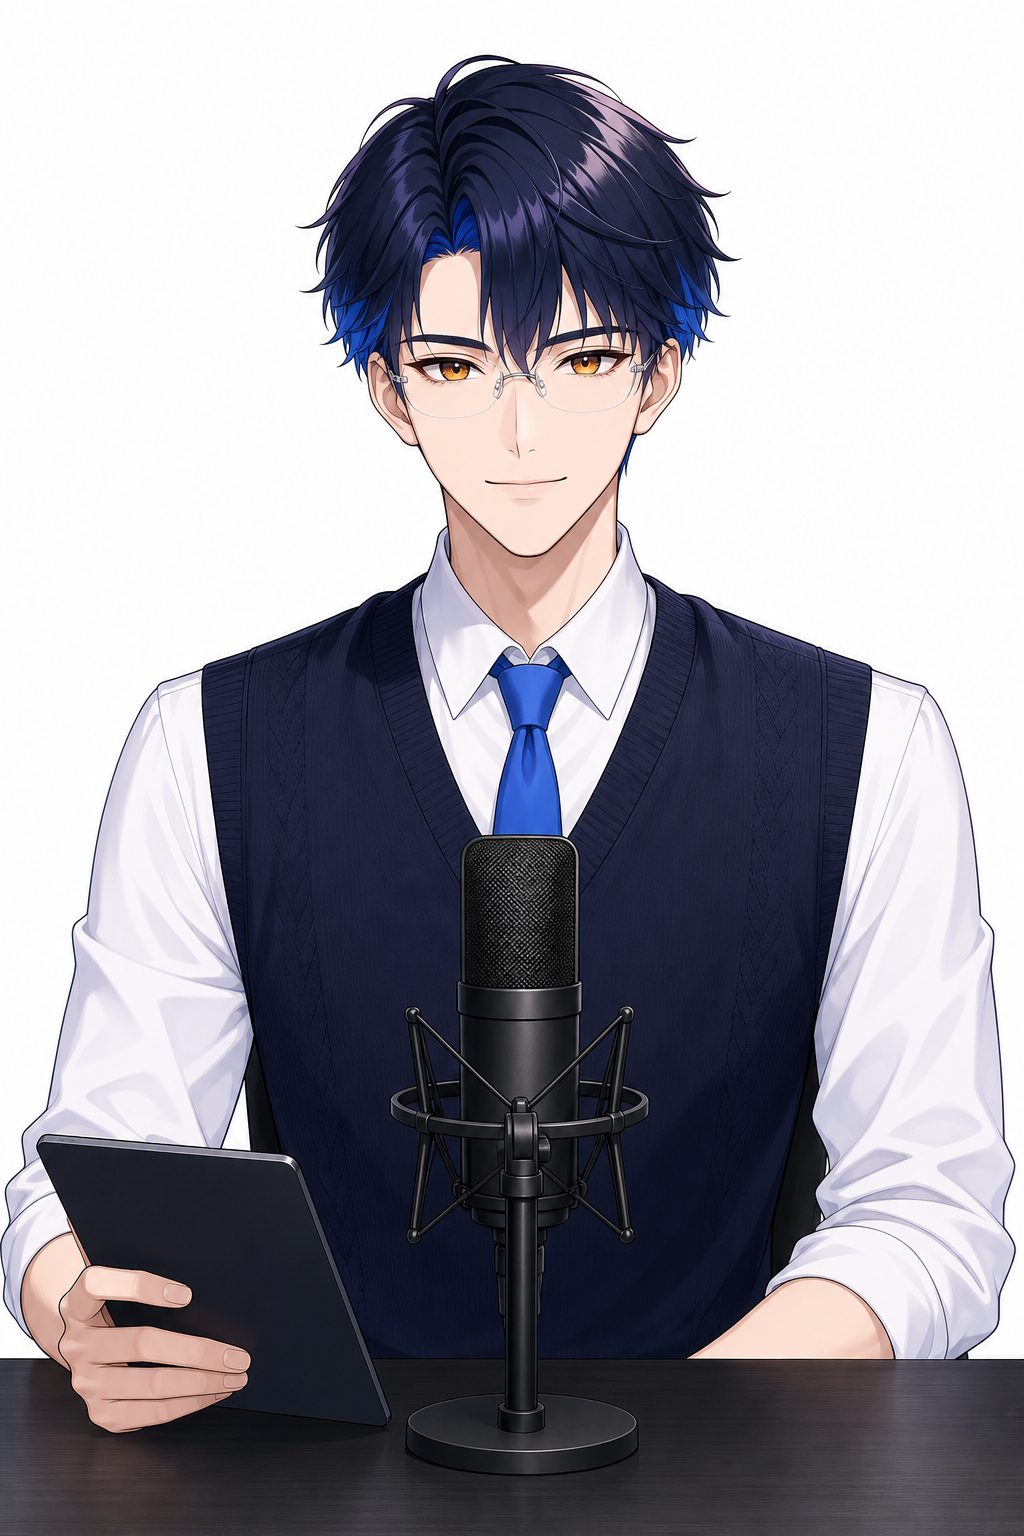
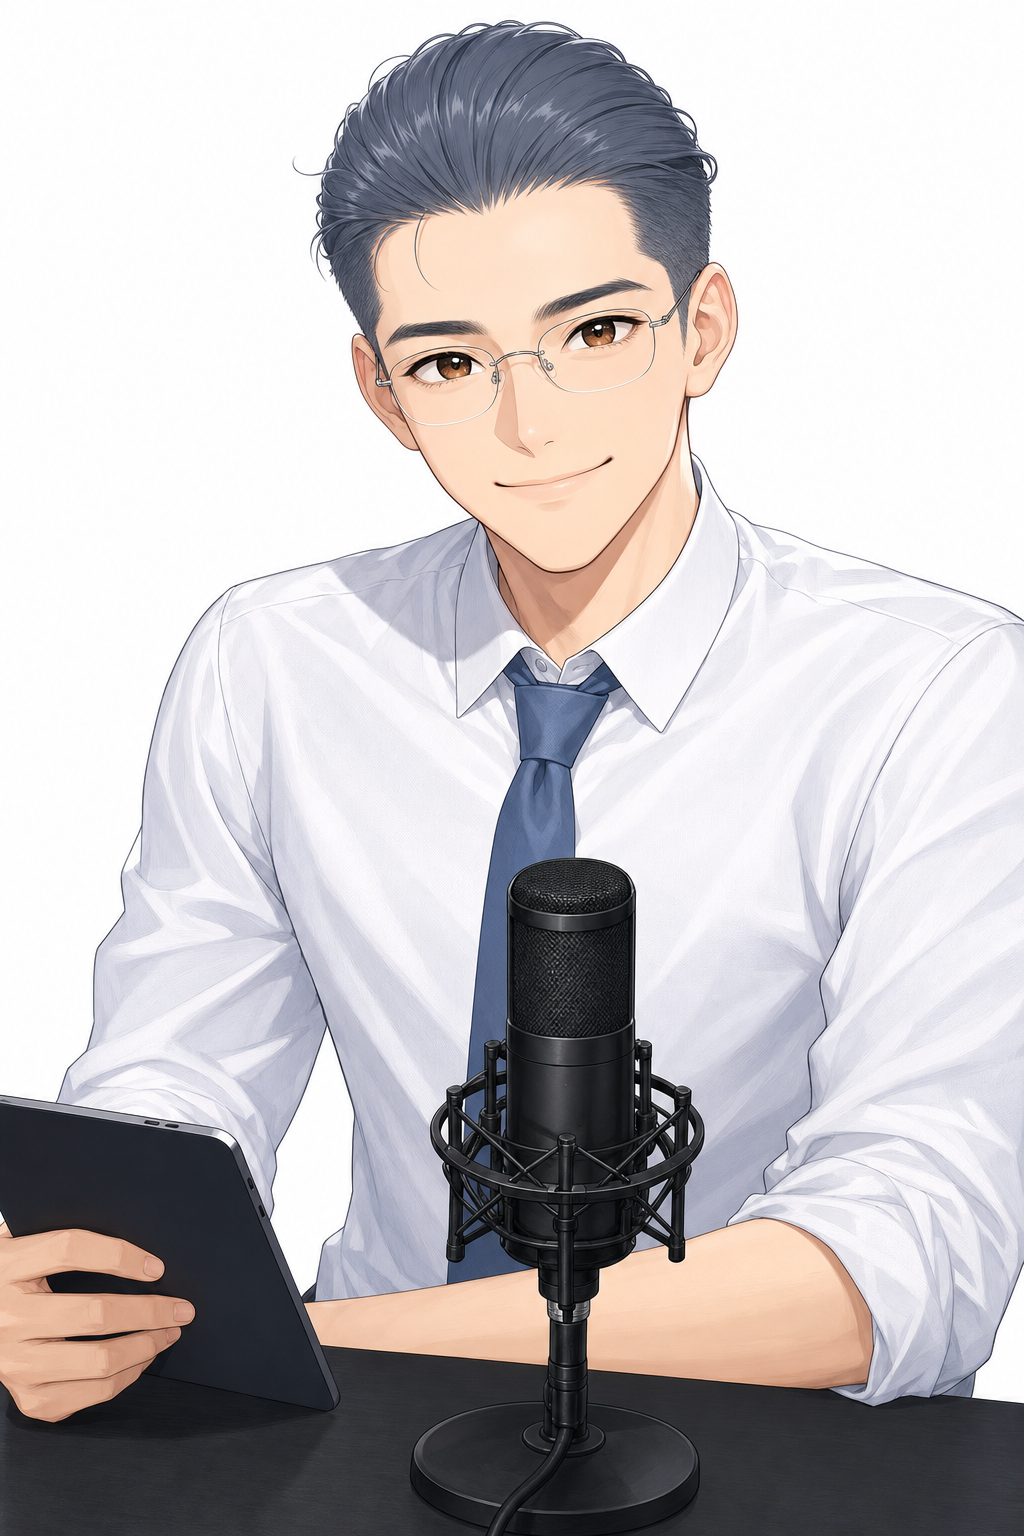
feat: VIP 리포터 캐릭터를 레이(여성·현장)로 교체, 카이(남성)는 보류
남성 캐릭터는 프롬프트를 어떻게 잡아도 세이넨 극화체로 흘러 로지·미아와
같은 크루로 읽히지 않았다. 여성 캐릭터로 방향을 틀고, 현장 리포터는 서 있는
인물이므로 흉상 대신 허벅지까지 반신 규격을 새로 정한다.

한 영상에 여러 캐릭터를 동시에 세우지 않고 뉴스처럼 "리포터1→씬1"로 배치하기로
정리했으므로, 담당 역할을 배타적으로 나누던 항목을 걷어내고 담당 주제·화법 톤
차이만 남겼다.

작업 중 겪은 함정 두 개를 문서에 남긴다. (1) codex가 숨김 디렉터리(.tmp) 안의
참조 이미지를 샌드박스 제약으로 못 읽으면서도 참조 없이 그냥 생성해 조용히
실패한다 — 지시가 무시되는 것처럼 보이던 원인. (2) 머리 길이만 지시하면 모델이
얼굴을 성숙하게 그려버려, 얼굴이 잘 나온 시안을 참조로 고정하고 길이만 바꾸게
해야 한다.

diff --git a/CHARACTERS-REPORTERS-DRAFT.md b/CHARACTERS-REPORTERS-DRAFT.md
@@ -1,34 +1,41 @@
-# VIP(playcast) 리포터 캐릭터 2종 — 초안
+# VIP(playcast) 리포터 캐릭터 초안
 
 > 작성 2026-07-29 · 상태: **초안(미확정)** · 기준 캐릭터: 앵커 **로지(Rosie)** `public/host/rosie.png`
 
 ## 0. 설계 원칙 — "같은 방송국 크루"로 묶는다
 
 로지의 결을 잇는다는 건 머리색을 비슷하게 가는 게 아니라, **같은 화가가 같은 규칙으로 그린
-같은 방송국 소속**으로 읽히게 만드는 것이다. 그래서 아래 3층으로 나눈다.
+같은 방송국 소속**으로 읽히게 만드는 것이다. 그래서 아래로 층을 나눈다.
 
-| 층 | 내용 | 3인 공통/개별 |
+| 층 | 내용 | 공통/개별 |
 |---|---|---|
-| 그림체 | 밝은 애니 일러스트, 얇고 깔끔한 선, 소프트 셀 셰이딩, 큰 눈+하이라이트, 흰 배경 | **공통(고정)** |
-| 구도 | 바스트업 정면, 방송 데스크 + 검은 스튜디오 콘덴서 마이크, 손은 데스크 위 | **공통(고정)** |
-| 유니폼 | 크리스프한 **화이트 드레스 셔츠** | **공통(고정)** |
-| 시그니처 컬러 | 머리색 + 목장식(타이/스카프) 1색 | **개별** |
-| 역할 | 담당 코너 | **개별** |
+| 그림체 | 밝은 애니 일러스트, 얇고 깔끔한 선, **밝은** 소프트 셀셰이딩(그림자 가볍게), 큰 눈 + 하이라이트 2겹, 흰 배경 | **공통(고정)** |
+| 유니폼 | 크리스프한 **화이트 드레스 셔츠** + 목에 시그니처 컬러 1점 | **공통(고정)** |
+| 연령대 | 22세 전후로 통일 | **공통(고정)** |
+| 프레이밍 | 스튜디오=바스트업(데스크+콘덴서 마이크) / 현장=**허벅지까지 반신 스탠딩**(핸드헬드 마이크) | 포지션별 |
+| 시그니처 컬러 | 머리색 또는 넥웨어 | **개별** |
+| 담당 주제·톤 | 코너 성격 | **개별** |
 
-시그니처 컬러는 사이트 팔레트(`--host:#57e6c3`, `--live:#ff3d54`)와 충돌하지 않게 색상환에서
-민트 → 라벤더 → 코발트로 벌린다. 다크 UI(#0f0f11) 위에서 셋 다 명도 대비가 확보된다.
+시그니처 컬러는 사이트 팔레트(`--host:#57e6c3`, `--live:#ff3d54`)와 충돌하지 않게 색상환에서 벌린다.
+다크 UI(#0f0f11) 위에서 명도 대비가 확보되는지 확인할 것.
 
-| 인물 | 시그니처 | 머리 | 눈 | 포지션 |
-|---|---|---|---|---|
-| 로지 (기존) | 민트 `#57e6c3` | 민트/아쿠아 롱 스트레이트 | 틸 | **메인 앵커** — 스튜디오 진행 |
-| 미아 (신규♀) | 라벤더 `#b28cf0` | 라벤더-바이올렛, 하프업 포니테일 | 앰버 골드 | **현장 리포터** |
-| 카이 (신규♂) | 코발트 `#4d9bff` | 다크 네이비 + 코발트 이너, 숏컷 | 쿨 앰버 | **데이터·분석 리포터** |
+### 운용 방식 — 씬 단위 배치
+
+한 영상에 여러 캐릭터가 동시에 등장하는 구성은 아직 쓰지 않는다. **뉴스처럼 "리포터1 → 씬1"
+단위로 배치**한다(한 영상에 1인 기본). 그래서 담당 역할이 배타적이어야 할 필요가 없고,
+캐릭터 구분은 **담당 주제와 화법 톤**으로만 준다.
+
+| 인물 | 시그니처 | 머리 | 눈 | 프레이밍 | 담당 주제·톤 |
+|---|---|---|---|---|---|
+| 로지 (기존) | 민트 `#57e6c3` | 민트/아쿠아 롱 스트레이트 | 틸 | 바스트업(스튜디오) | **메인 앵커** — 진행·정리, 밝고 명랑 |
+| 미아 (초안) | 라벤더 `#b28cf0` | 라벤더-바이올렛 하프업 포니테일 | 앰버 골드 | 바스트업(스튜디오) | 신작 첫인상·이벤트 속보, 텐션 높고 리액션 큼 |
+| 레이 (초안) | 슬레이트 블루 `#5b7fa6` (넥타이) | 애쉬 슬레이트 `#5c6b7a` | 블루 그레이 | **반신 스탠딩(현장)** | 현장 취재·심층 리포트, 차분하고 자신감 있는 톤 |
 
 ---
 
-## 1. 미아 (Mia) — 현장 리포터 ♀
+## 1. 미아 (Mia) ♀ — 신작·속보
 
-**한 줄**: 신작·이벤트 현장을 뛰어다니며 "지금 여기"를 물어오는 에너지 담당.
+**한 줄**: 신작·이벤트를 두고 "이거 진짜 미쳤어요"를 먼저 외치는 에너지 담당.
 
 - **머리**: 라벤더-바이올렛(`#b28cf0`), 하프업 포니테일 + 잔땋기 한 가닥, 사이드 스웹트 뱅.
   로지의 "길고 차분한 스트레이트"와 대비되는 **움직이는 실루엣**.
@@ -36,43 +43,76 @@
 - **얼굴**: 로지보다 살짝 둥근 소녀상, 활짝 웃는 입(로지는 닫힌 미소) → 밝기 한 단계 위.
 - **복장**: 화이트 셔츠 + **라벤더 네커치프**(로지의 타이 자리를 스카프로 변주),
   어깨에 걸친 베이지 프레스 재킷, 가슴 포켓에 프레스 ID 카드.
-- **소품**: 스튜디오 마이크(공통) / 현장 컷에서는 **핸드헬드 마이크**로 교체.
-- **성격·말투**: 텐션 높고 리액션 큼. 감탄사 많음("이거 진짜 미쳤어요"),
-  로지가 정리하면 미아가 흥분한다 → **대비로 굴러가는 케미**.
-- **담당 코너**: 신작 첫인상, 이벤트/업데이트 속보, 커뮤니티 반응.
+- **소품**: 스튜디오 콘덴서 마이크.
+- **말투**: 감탄사 많고 문장이 빠름. 로지가 정리하면 미아가 흥분한다.
+- **상태**: 초안 1회 생성으로 그림체 합격. `public/host/draft/mia.png`
 
-## 2. 카이 (Kai) — 데이터·분석 리포터 ♂
+## 2. 레이 (Rei) ♀ — 현장 취재
 
-**한 줄**: 수치·패치노트·메타를 뜯어보고 차분하게 결론을 놓는 브레인.
+**한 줄**: 현장에 서서 차분하게 사실을 짚는 취재 담당. 크루 중 가장 어른스러운 톤.
 
-- **머리**: 다크 네이비 숏컷 + **코발트 이너 하이라이트**(`#4d9bff`), 살짝 긴 앞머리.
-  남성 캐릭터는 채도를 낮춰야 여성 2인과 나란히 놓았을 때 화면이 안 튄다.
-- **눈**: 쿨한 앰버. **얇은 무테 안경** — 3인 중 유일한 안면 소품이라 실루엣 식별점이 된다.
-- **복장**: 화이트 셔츠 **소매 롤업** + 코발트 슬림 타이 + 다크 네이비 니트 베스트.
-  로지/미아가 "셔츠 그대로"라면 카이는 레이어 하나를 더해 무게를 준다.
-- **소품**: 스튜디오 마이크(공통) + 손에 슬림 태블릿(그래프 표시).
-- **성격·말투**: 낮은 톤, 짧고 단정한 문장, 결론부터. 농담은 건조하게 한 번.
-- **담당 코너**: 패치·밸런스 분석, 매출/지표, "그래서 살 만한가" 결론 코너.
+- **머리**: 애쉬 슬레이트 블루그레이(`#5c6b7a`) **단일색**(투톤·이너하이라이트 금지),
+  **어깨선 길이의 레이어드 중단발** — 끝이 어깨에 닿고 일부 가닥은 가슴 앞으로 떨어진다.
+  소프트 사이드 스웹트 뱅 + 얼굴 감싸는 잔가닥, 가볍게 흐트러진 텍스처.
+- **눈**: 블루 그레이. 머리와 톤 통일.
+- **얼굴**: 자신감 있는 반쯤 웃는 입매, 정면 응시, 눈꼬리가 살짝 올라간 눈매.
+  **걸크러쉬 감각은 헤어·포즈·표정으로 주고, 눈 크기·채색은 크루 규격을 따른다.**
+- **복장**: 화이트 셔츠(칼라 단정히 닫음) 소매 롤업 + **슬레이트 블루 슬림 타이** +
+  다크 차콜 슬림 슬랙스 + 얇은 벨트 + 랜야드 프레스 ID.
+  ⚠**랜야드는 오른쪽 가슴에 짧게 걸어 타이를 가리지 않는다** — 타이가 매듭부터 끝까지
+  보여야 시그니처 컬러가 성립한다.
+- **소품**: 폼 윈드스크린 달린 **핸드헬드 스틱 마이크**(가슴 높이).
+- **프레이밍**: 현장 담당이므로 흉상이 아니라 **머리~허벅지 반신, 스탠딩**.
+  **자세는 정면 직립**(짝다리·손 허리 포즈 아님) — 리그 파츠로 분해할 때 좌우 대칭이 필요하다.
+- **말투**: 낮고 안정된 톤, 짧고 단정한 문장, 결론부터.
+- **상태**: 초안 `public/host/draft/rei.png` (= rei-v6-b).
+  단 현재 파일은 짝다리 + 손 허리 자세 → **정면 직립본으로 교체 예정**.
+
+### 레이 제작 노트
+
+- **눈 크기 문제와 그 원인**: 초기 시안들이 계속 눈이 작고 25세 이상으로 나왔다. 프롬프트를
+  아무리 고쳐도 반영되지 않았는데, 진짜 원인은 프롬프트가 아니라 **codex가 참조 이미지를 아예
+  읽지 못하고 있었던 것**이었다(아래 항목 참조). 참조 경로를 고친 뒤에는 얼굴 고정이 정상 작동한다.
+- **머리 길이가 길어지면 얼굴이 늙는 편향**: 길이만 지시하면 모델이 얼굴을 성숙하게 그린다.
+  → **얼굴이 잘 나온 시안을 참조로 박고 "길이만 바꾼다"고 지시**해야 한다.
+- **길이가 계속 짧아지는 문제**: "어깨 길이"만으로는 턱선까지만 그린다.
+  → **너무 짧은 시안을 비교 참조로 함께 넣고 "이것보다 눈에 띄게 길게"** 라고 지시하면 통한다.
+
+### ⚠ codex-imagegen 함정 (이 프로젝트에서 실측)
+
+`.tmp/` 같은 **숨김 디렉터리 안의 이미지를 참조로 넘기면 Windows 샌드박스가 거부**한다
+(`failed to prepare windows sandbox wrapper: ... refusing to run unsandboxed`).
+이때 codex는 **참조 없이 그냥 생성해버리므로 조용히 실패**한다 — 지시가 무시된 것처럼 보인다.
+
+→ **참조 이미지와 출력 경로는 모두 숨김이 아닌 경로를 쓴다.**
+   참조 = `playcast-blog/public/host/draft/*.png`, 출력 = `gen-out/`
+
+## 3. 카이 (Kai) ♂ — **보류**
+
+남성 분석 리포터로 v1~v6까지 진행했으나, 여성 캐릭터로 방향을 전환하며 보류.
+최신본 `public/host/draft/kai.png` (= kai-v6-slick).
+
+- 최종 형태: 애쉬 슬레이트 올백 깐머리, 무테 안경, 화이트 셔츠 소매 롤업 + 뮤트 슬레이트 타이,
+  베스트 없음, 바스트업 데스크 구도.
+- **진행 중 얻은 교훈**(재개 시 참고):
+  1. 남성 캐릭터는 프롬프트를 방치하면 세이넨 극화체로 흐른다 — "큰 눈·둥근 턱·22세"를 매번 명시해야 한다.
+  2. "샤프하게"를 강하게 걸면 연령이 30대로 올라가고 눈매가 사나워진다 — 샤프는 **선과 디테일**에만 걸고
+     이목구비에는 걸지 말 것.
+  3. 원색 파란 머리는 위화감이 크다. 머리색을 시그니처로 쓰는 규칙은 여성 캐릭터에만 적용하고,
+     남성은 무채·저채도 + 넥웨어로 시그니처를 주는 편이 낫다.
 
 ---
 
-## 3. 3인 케미 설계 (콘텐츠 관점)
-
-```
-로지(앵커)  ──진행·정리──▶  미아(현장)  ──열정·체험──▶  카이(분석)  ──수치·결론──▶  로지(마무리)
-```
-
-- 한 편 안에서 **감정(미아) → 근거(카이) → 판단(로지)** 순서가 자연스럽게 만들어진다.
-- 썸네일 코스프레 컨벤션(`vip-thumbnail` 스킬)도 그대로 확장 가능:
-  게임에 따라 로지 단독 / 미아 단독 / 3인 조합 커버를 선택.
-
 ## 4. 확정 시 필요한 후속 작업
 
-- [ ] 이름·시그니처 컬러 확정
-- [ ] 확정 시안으로 베이스 600×911 PNG 재생성 (로지와 동일 캔버스·스케일)
-- [ ] 리그 파츠 세트 (`HOST-RIG-PARTS.md` 규격: blink / expr 8종 / mouth 7종)
+- [ ] 이름 확정 (미아 / 레이)
+- [x] 레이 헤어 길이 확정 — 어깨선 레이어드 중단발
+- [ ] 레이 자세를 정면 직립으로 재생성 후 `rei.png` 교체
+- [ ] 확정 시안으로 베이스 PNG 재생성 — 스튜디오 캐릭터는 로지와 동일 캔버스 600×911,
+      현장 캐릭터(레이)는 반신이라 별도 캔버스 규격 필요
+- [ ] 리그 파츠 세트 (`HOST-RIG-PARTS.md` 규격: blink / expr 8종 / mouth 7종) — 이때 레이 눈 크기 보정
 - [ ] `src/components/HostStage.astro` 다중 호스트 지원 (현재 로지 하드코딩)
-- [ ] `content.config.ts` frontmatter에 `host: rosie | mia | kai` 필드 추가
-- [ ] 로지 TTS와 구분되는 음성 프리셋 (`roji-tts` 스킬 확장 — 미아=하이톤 빠름, 카이=로우톤 느림)
+- [ ] `content.config.ts` frontmatter에 `host: rosie | mia | rei` 필드 추가
+- [ ] 음성 프리셋 (`roji-tts` 스킬 확장 — 미아=하이톤 빠름, 레이=로우톤 느림)
 
-> 초안 이미지: `public/host/draft/mia.png`, `public/host/draft/kai.png`
+> 초안 이미지: `public/host/draft/mia.png`, `rei.png`, `kai.png`(보류)
